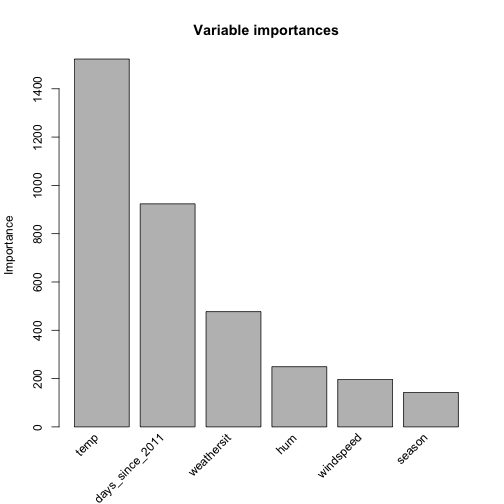
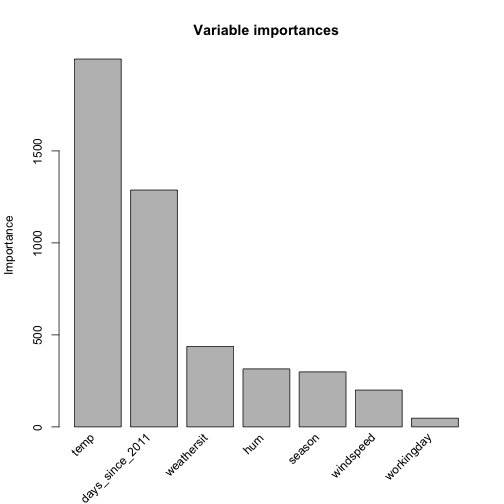
leanpub-tests

diff --git a/manuscript/04.5-interpretable-rulefit.md b/manuscript/04.5-interpretable-rulefit.md
@@ -42,36 +42,36 @@ If {$$}x_j{/$$} increases by one unit, the predicted outcome changes by {$$}\bet
 
 In this example, we use RuleFit to predict the number of bike rentals on a given day (see Chapter \@ref(bike-data)).
 The rules generated for the bike rental prediction task can be seen in Figure \@ref(fig:rulefit-example).
-The most important rule was: "days_since_2011 > 111 & weathersit %in% c("GOOD", "MISTY")" and the associated weight is 689.4.
+The most important rule was: "days_since_2011 > 111 & weathersit %in% c("GOOD", "MISTY")" and the associated weight is 614.2.
 The interpretation is:
-If days_since_2011 > 111 & weathersit %in% c("GOOD", "MISTY"), then the predicted number of bike rentals increases by 689.4, given all other features values stay fixed.
-In total,  332 such rules were created from the original 8 features.
+If days_since_2011 > 111 & weathersit %in% c("GOOD", "MISTY"), then the predicted number of bike rentals increases by 614.2, given all other features values stay fixed.
+In total,  344 such rules were created from the original 8 features.
 Quite a lot!
-But thanks to Lasso, only 40 of the 332 got a weight different from zero.
+But thanks to Lasso, only 59 of the 344 got a weight different from zero.
 
 
 |Description                                                           | Weight| Importance| Std. Dev|
 |:---------------------------------------------------------------------|------:|----------:|--------:|
-|days_since_2011 > 111 & weathersit %in% c("GOOD", "MISTY")            |  689.4|      263.0|     0.38|
-|temp > 6.958267 & weathersit %in% c("GOOD", "MISTY")                  |  664.7|      280.4|     0.42|
-|temp <= 13.9725 & days_since_2011 <= 368                              | -567.6|      244.7|     0.43|
-|days_since_2011 > 430 & temp > 5.081651                               |  553.8|      270.8|     0.49|
-|temp > 15.663466 & days_since_2011 > 432                              |  495.9|      215.4|     0.43|
-|temp <= 6.954554 & temp > 3.945849                                    |  425.9|      135.9|     0.32|
-|temp > 12.719151 & days_since_2011 > 517                              |  388.3|      155.7|     0.40|
-|days_since_2011 > 440 & temp > 11.544151                              |  346.8|      159.4|     0.46|
-|days_since_2011 > 430 & temp <= 5.081651                              | -309.8|       39.4|     0.13|
-|temp > 11.583349 & weathersit %in% c("GOOD", "MISTY")                 |  290.6|      142.7|     0.49|
-|temp <= 12.758349 & days_since_2011 <= 387                            | -234.1|      101.9|     0.44|
-|temp <= 13.228349 & season %in% c("SPRING")                           | -232.0|       97.3|     0.42|
-|season %in% c("SUMMER", "FALL", "WINTER") & weathersit %in% c("GOOD") |  208.4|      104.2|     0.50|
-|temp > 8.184356 & days_since_2011 > 427                               |  205.9|       98.5|     0.48|
-|temp <= 16.0875                                                       | -164.8|       82.4|     0.50|
-|temp <= 9.664151                                                      | -158.1|       73.6|     0.47|
-|temp > 9.664151 & days_since_2011 > 397                               |  157.6|       74.7|     0.47|
-|temp <= 7.98 & season %in% c("SPRING", "SUMMER")                      | -139.9|       54.8|     0.39|
-|days_since_2011 > 111 & weathersit %in% c("GOOD")                     |  122.3|       60.9|     0.50|
-|temp <= 12.993349 & weathersit %in% c("RAIN/SNOW/STORM")              | -118.0|       14.4|     0.12|
+|days_since_2011 > 111 & weathersit %in% c("GOOD", "MISTY")            |  614.2|      234.3|     0.38|
+|temp > 5.081651 & weathersit %in% c("GOOD", "MISTY")                  |  568.8|      207.3|     0.36|
+|temp > 13.776651 & days_since_2011 > 554                              |  536.8|      189.9|     0.35|
+|temp > 15.8525 & days_since_2011 > 437                                |  499.7|      216.2|     0.43|
+|days_since_2011 > 430 & temp > 5.081651                               |  479.6|      234.5|     0.49|
+|temp <= 5.081651 & workingday %in% c("NO WORKING DAY")                | -424.1|       90.6|     0.21|
+|temp > 5.081651 & weathersit %in% c("RAIN/SNOW/STORM")                | -365.2|       53.5|     0.15|
+|days_since_2011 <= 449 & temp > 15.774151                             |  302.4|      131.6|     0.44|
+|season %in% c("SPRING") & temp > 4.914801                             | -282.9|       97.3|     0.34|
+|days_since_2011 > 449 & weathersit %in% c("MISTY", "RAIN/SNOW/STORM") | -281.5|       95.6|     0.34|
+|temp > 11.583349 & days_since_2011 > 440                              |  251.8|      115.7|     0.46|
+|temp <= 12.993349 & temp <= 4.024151                                  | -241.0|       71.0|     0.29|
+|temp <= 12.249151 & days_since_2011 <= 368                            | -239.4|       99.1|     0.41|
+|temp <= 12.758349 & weathersit %in% c("RAIN/SNOW/STORM")              | -237.8|       29.0|     0.12|
+|season %in% c("SPRING") & temp <= 7.275                               | -234.3|       85.7|     0.37|
+|temp <= 12.249151 & days_since_2011 > 368                             |  234.1|       90.9|     0.39|
+|temp > 11.544151 & days_since_2011 > 396                              |  229.9|      106.7|     0.46|
+|temp > 7.98 & days_since_2011 > 397                                   |  220.9|      107.0|     0.48|
+|temp <= 15.8525                                                       | -217.5|      108.8|     0.50|
+|days_since_2011 > 108 & weathersit %in% c("GOOD", "MISTY")            |  212.5|       80.3|     0.38|
 Computing the global feature importances reveals that temperature and the time trend are the most important features, see Figure \@ref(fig:rulefit-importance).
 The feature importance measurement includes the importance of the raw feature term and all the decision rules the feature appears in.
 
@@ -159,11 +159,11 @@ Further splits in that feature create more complicated intervals.
 For categorical features the subset {$$}s_{jm}{/$$} contains some specific categories of {$$}x_j{/$$}.
 
 A made up example for the bike rental data set:
-{$$}\begin{eqnarray}r_{17}(x)&=&I(x_{\text{temp}}<15)\cdot\\&&I(x_{\text{weather}}\in\{\text{good},\text{cloudy}\})\cdot\\&&I(10\leq{}x_{\text{windspeed}}<20)\end{eqnarray}{/$$}
+{$$}r_{17}(x)&=&I(x_{\text{temp}}<15)\cdot\\&&I(x_{\text{weather}}\in\{\text{good},\text{cloudy}\})\cdot\\&&I(10\leq{}x_{\text{windspeed}}<20){/$$}
 This rule will only be equal to 1 if all of the three conditions are met, otherwise 0.
 RuleFit extracts all possible rules from a tree, not only from the leaf nodes.
 So another rule that would be created is:
-{$$}\begin{eqnarray}r_{18}(x)&=&I(x_{\text{temp}}<15)\cdot\\&&I(x_{\text{weather}}\in\{\text{good},\text{cloudy}\})\end{eqnarray}{/$$}
+{$$}r_{18}(x)&=&I(x_{\text{temp}}<15)\cdot\\&&I(x_{\text{weather}}\in\{\text{good},\text{cloudy}\}{/$$}
 In total, {$$}K=\sum_{m=1}^M2(t_m-1){/$$} rules are created from the ensemble of {$$}M{/$$} trees, with {$$}t_m{/$$} terminal nodes each.
 A trick that is introduced by the RuleFit authors is to fit trees with random depth, so that a lot of diverse rules are generated with different lengths.
 Note that we throw away the predicted value in each node and only keep the conditions that lead us to the node and create a rule from it.
